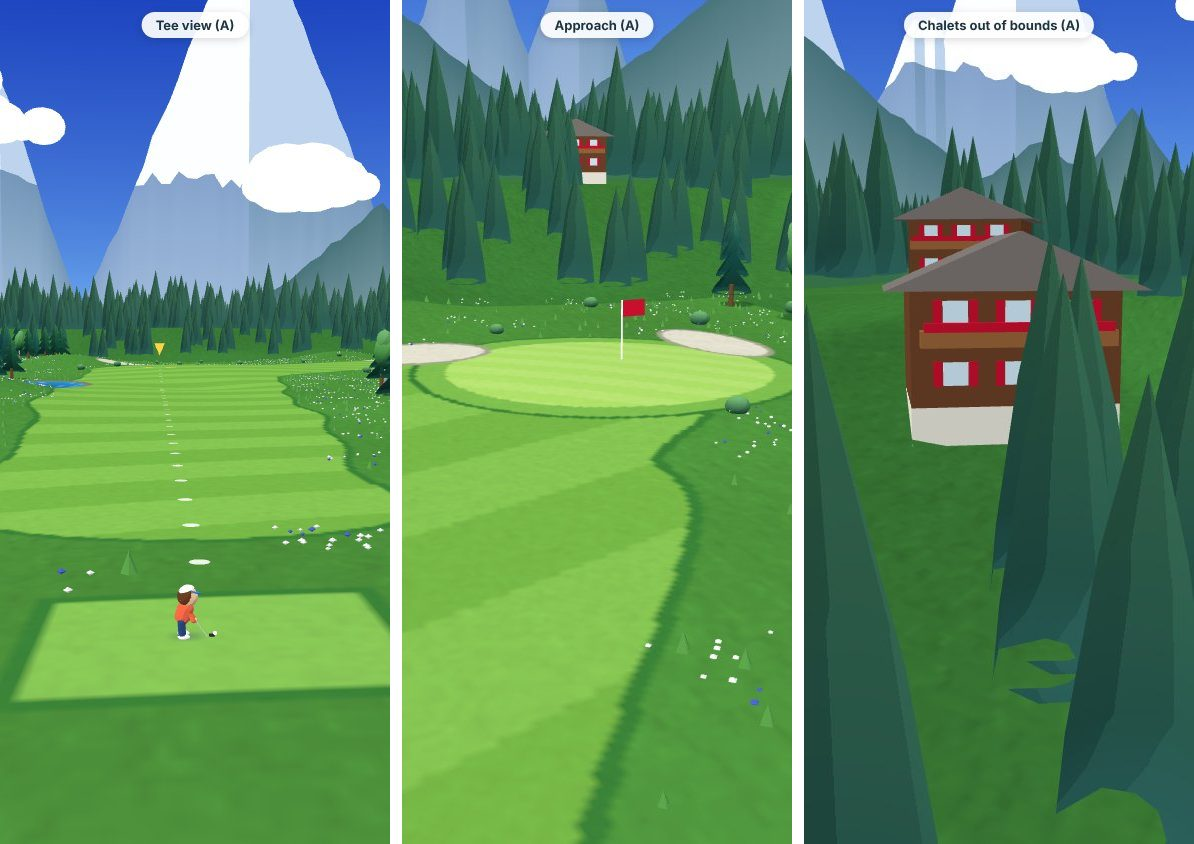
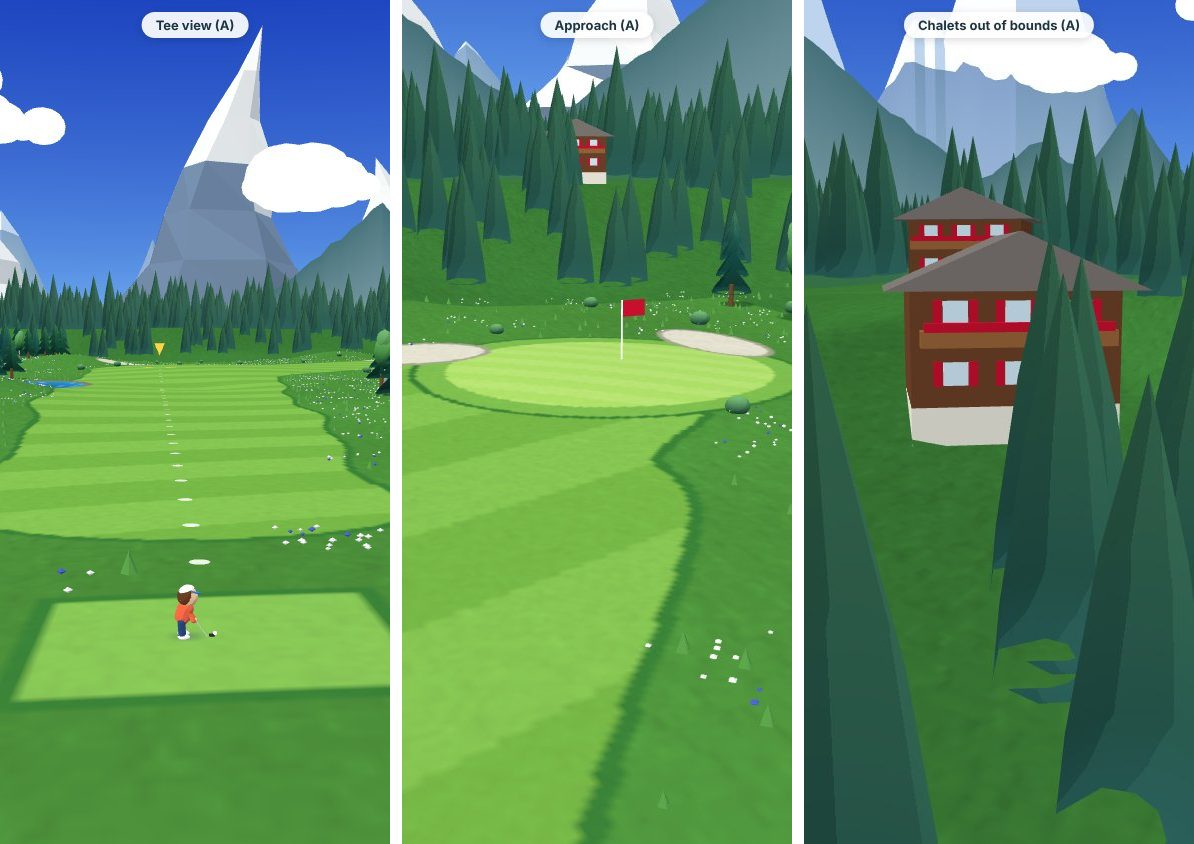
Art: Alpine stylised horn peaks (owner feedback)
— Agent: artist

Claude-Session: https://claude.ai/code/session_01Rv6Ng9ELhLTGiLwq6qRntd

Changed region(s): [[0.0, 0.0, 0.3409, 0.3697], [0.3409, 0.0, 0.5888, 0.154]]

diff --git a/docs/art/alpine/mockup.html b/docs/art/alpine/mockup.html
@@ -171,8 +171,38 @@ function makePeaks(count, hMin, hMax, wMin, wMax, s) {
   for (let i = 0; i < count; i++) out.push({ a: -0.72 + rnd() * 1.44, h: hMin + rnd() * (hMax - hMin), w: wMin + rnd() * (wMax - wMin) });
   return out;
 }
-if (PICKS.backdrop === 'peaksSnow') { // prominent Swiss peaks: a far snowy range, one big glacier peak, dark forested slopes in front
-  scene.add(ridgeLayer({ dist: 2900, n: 160, peaks: [...makePeaks(12, 650, 1050, 0.06, 0.13, 3), { a: 0.1, h: 1500, w: 0.22 }, { a: -0.42, h: 1250, w: 0.16 }], snow: 560, colour: P.backFar, cap: P.backCap, capShade: P.backCapShade, haze: 0.1, jag: 30, seed: 11 }));
+// A stylised horn peak (Matterhorn-like, invented): a 5-6 sided pyramid, steeper and bent toward the summit
+// (the hook), faceted rock faces, snow on the upper slopes and on the flatter ledges. Toon shaded.
+function hornPeak({ ang, dist, h, r, hook = 0.3, sides = 6, seed: sd = 1, snowLine = 0.55 }) {
+  seed = sd; const rows = 7, pos = [], col = [];
+  const rand = Array.from({ length: (rows + 1) * sides }, () => rnd());
+  const P3 = (k, t) => { // ring k (0..sides), height step t (0..1)
+    const a = (k % sides) / sides * Math.PI * 2 + 0.3, n = rand[Math.round(t * rows) * sides + (k % sides)];
+    const rad = r * Math.pow(1 - t, 1.25) * (0.8 + 0.4 * n);
+    return [Math.cos(a) * rad + hook * r * t * t, t * h, Math.sin(a) * rad * 0.8];
+  };
+  const tri = (a, b, c, ta) => {
+    pos.push(...a, ...b, ...c);
+    const ux = b[0] - a[0], uy = b[1] - a[1], uz = b[2] - a[2], vx = c[0] - a[0], vy = c[1] - a[1], vz = c[2] - a[2];
+    let nx = uy * vz - uz * vy, ny = uz * vx - ux * vz, nz = ux * vy - uy * vx; const L = Math.hypot(nx, ny, nz); ny /= L;
+    const snow = ta > snowLine + 0.08 * Math.sin(ta * 23 + a[0]) || (ta > 0.22 && Math.abs(ny) > 0.58);
+    const c0 = new THREE.Color(snow ? P.backCap : mixHex(P.backFar, '#34465E', 0.3 + 0.25 * rnd())).lerp(new THREE.Color(P.fog), 0.12);
+    for (let q = 0; q < 3; q++) col.push(c0.r, c0.g, c0.b);
+  };
+  for (let row = 0; row < rows; row++) for (let k = 0; k < sides; k++) {
+    const t0 = row / rows, t1 = (row + 1) / rows;
+    const a0 = P3(k, t0), b0 = P3(k + 1, t0), a1 = P3(k, t1), b1 = P3(k + 1, t1);
+    if (row === rows - 1) tri(a0, b0, [hook * r, h, 0], t0); else { tri(a0, b0, b1, t0 + 0.07); tri(a0, b1, a1, t0 + 0.07); }
+  }
+  const g = new THREE.BufferGeometry(); g.setAttribute('position', new THREE.Float32BufferAttribute(pos, 3)); g.setAttribute('color', new THREE.Float32BufferAttribute(col, 3)); g.computeVertexNormals();
+  const m = new THREE.Mesh(g, toon({ vertexColors: true, fog: false, side: THREE.DoubleSide }));
+  m.position.set(Math.sin(ang) * dist, -40, -Math.cos(ang) * dist); m.rotation.y = -ang + 0.4; scene.add(m);
+}
+if (PICKS.backdrop === 'peaksSnow') { // prominent Swiss peaks: one hero horn, a range of smaller horns, a low far ridge, dark forested slopes in front
+  scene.add(ridgeLayer({ dist: 3300, n: 160, peaks: makePeaks(14, 380, 620, 0.05, 0.11, 3), snow: 420, colour: P.backFar, cap: P.backCap, capShade: P.backCapShade, haze: 0.25, jag: 30, seed: 11 }));
+  hornPeak({ ang: 0.06, dist: 3000, h: 1150, r: 430, hook: 0.42, sides: 6, seed: 21, snowLine: 0.55 });   // the hero horn
+  for (const [ang, dist, h, r, hook, sd] of [[-0.4, 3100, 760, 520, -0.2, 22], [-0.22, 3200, 620, 480, 0.15, 23], [0.28, 3150, 700, 520, -0.25, 24], [0.48, 3000, 820, 500, 0.2, 25], [-0.58, 3050, 640, 560, 0.1, 26], [0.7, 3100, 600, 520, -0.1, 27]])
+    hornPeak({ ang, dist, h, r, hook, sides: 5, seed: sd, snowLine: 0.36 });
   scene.add(ridgeLayer({ dist: 1500, n: 140, peaks: [{ a: -0.75, h: 520, w: 0.45 }, { a: 0.8, h: 560, w: 0.5 }, ...makePeaks(6, 140, 260, 0.12, 0.3, 5)], snow: 9999, colour: P.backNear, cap: P.backCap, capShade: P.backCapShade, haze: 0.08, jag: 10, seed: 12 }));
 } else if (PICKS.backdrop === 'hillsRound') {
   scene.add(ridgeLayer({ dist: 2700, n: 160, peaks: makePeaks(9, 190, 330, 0.22, 0.45, 31), snow: 999, colour: P.backFar, cap: P.backCap, capShade: P.backCapShade, haze: 0.22, jag: 3, seed: 32, round: true }));
